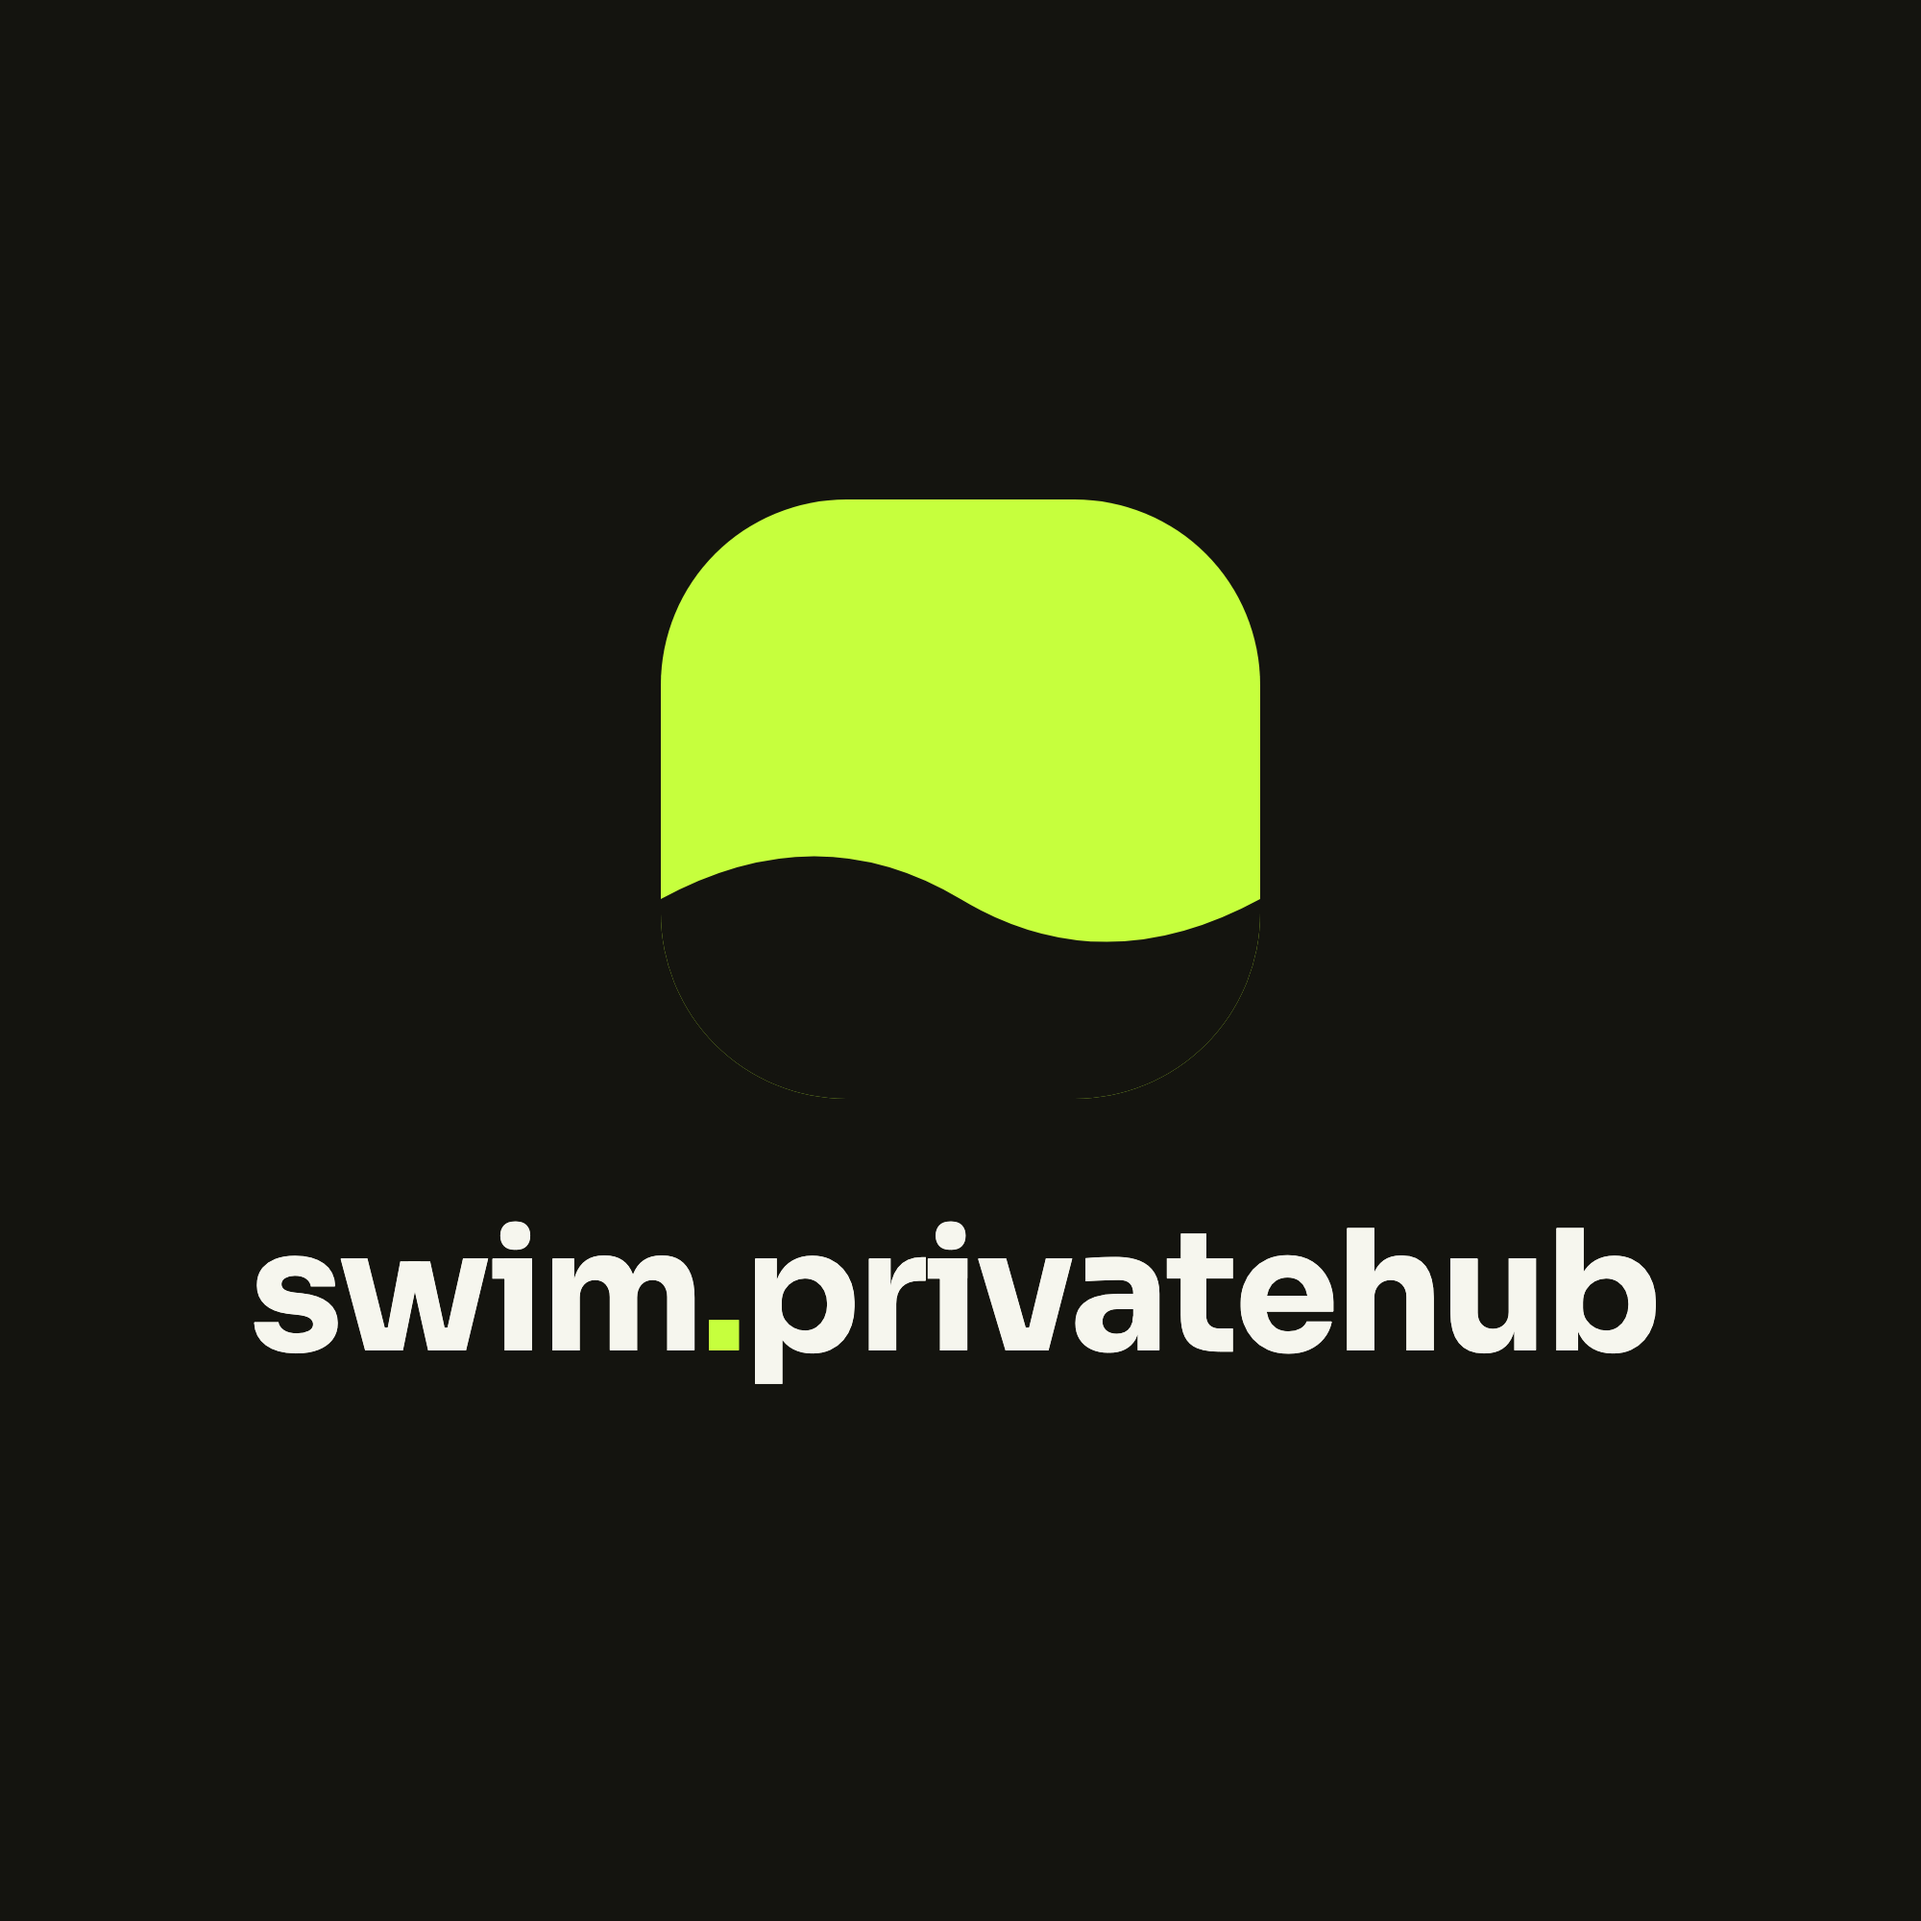
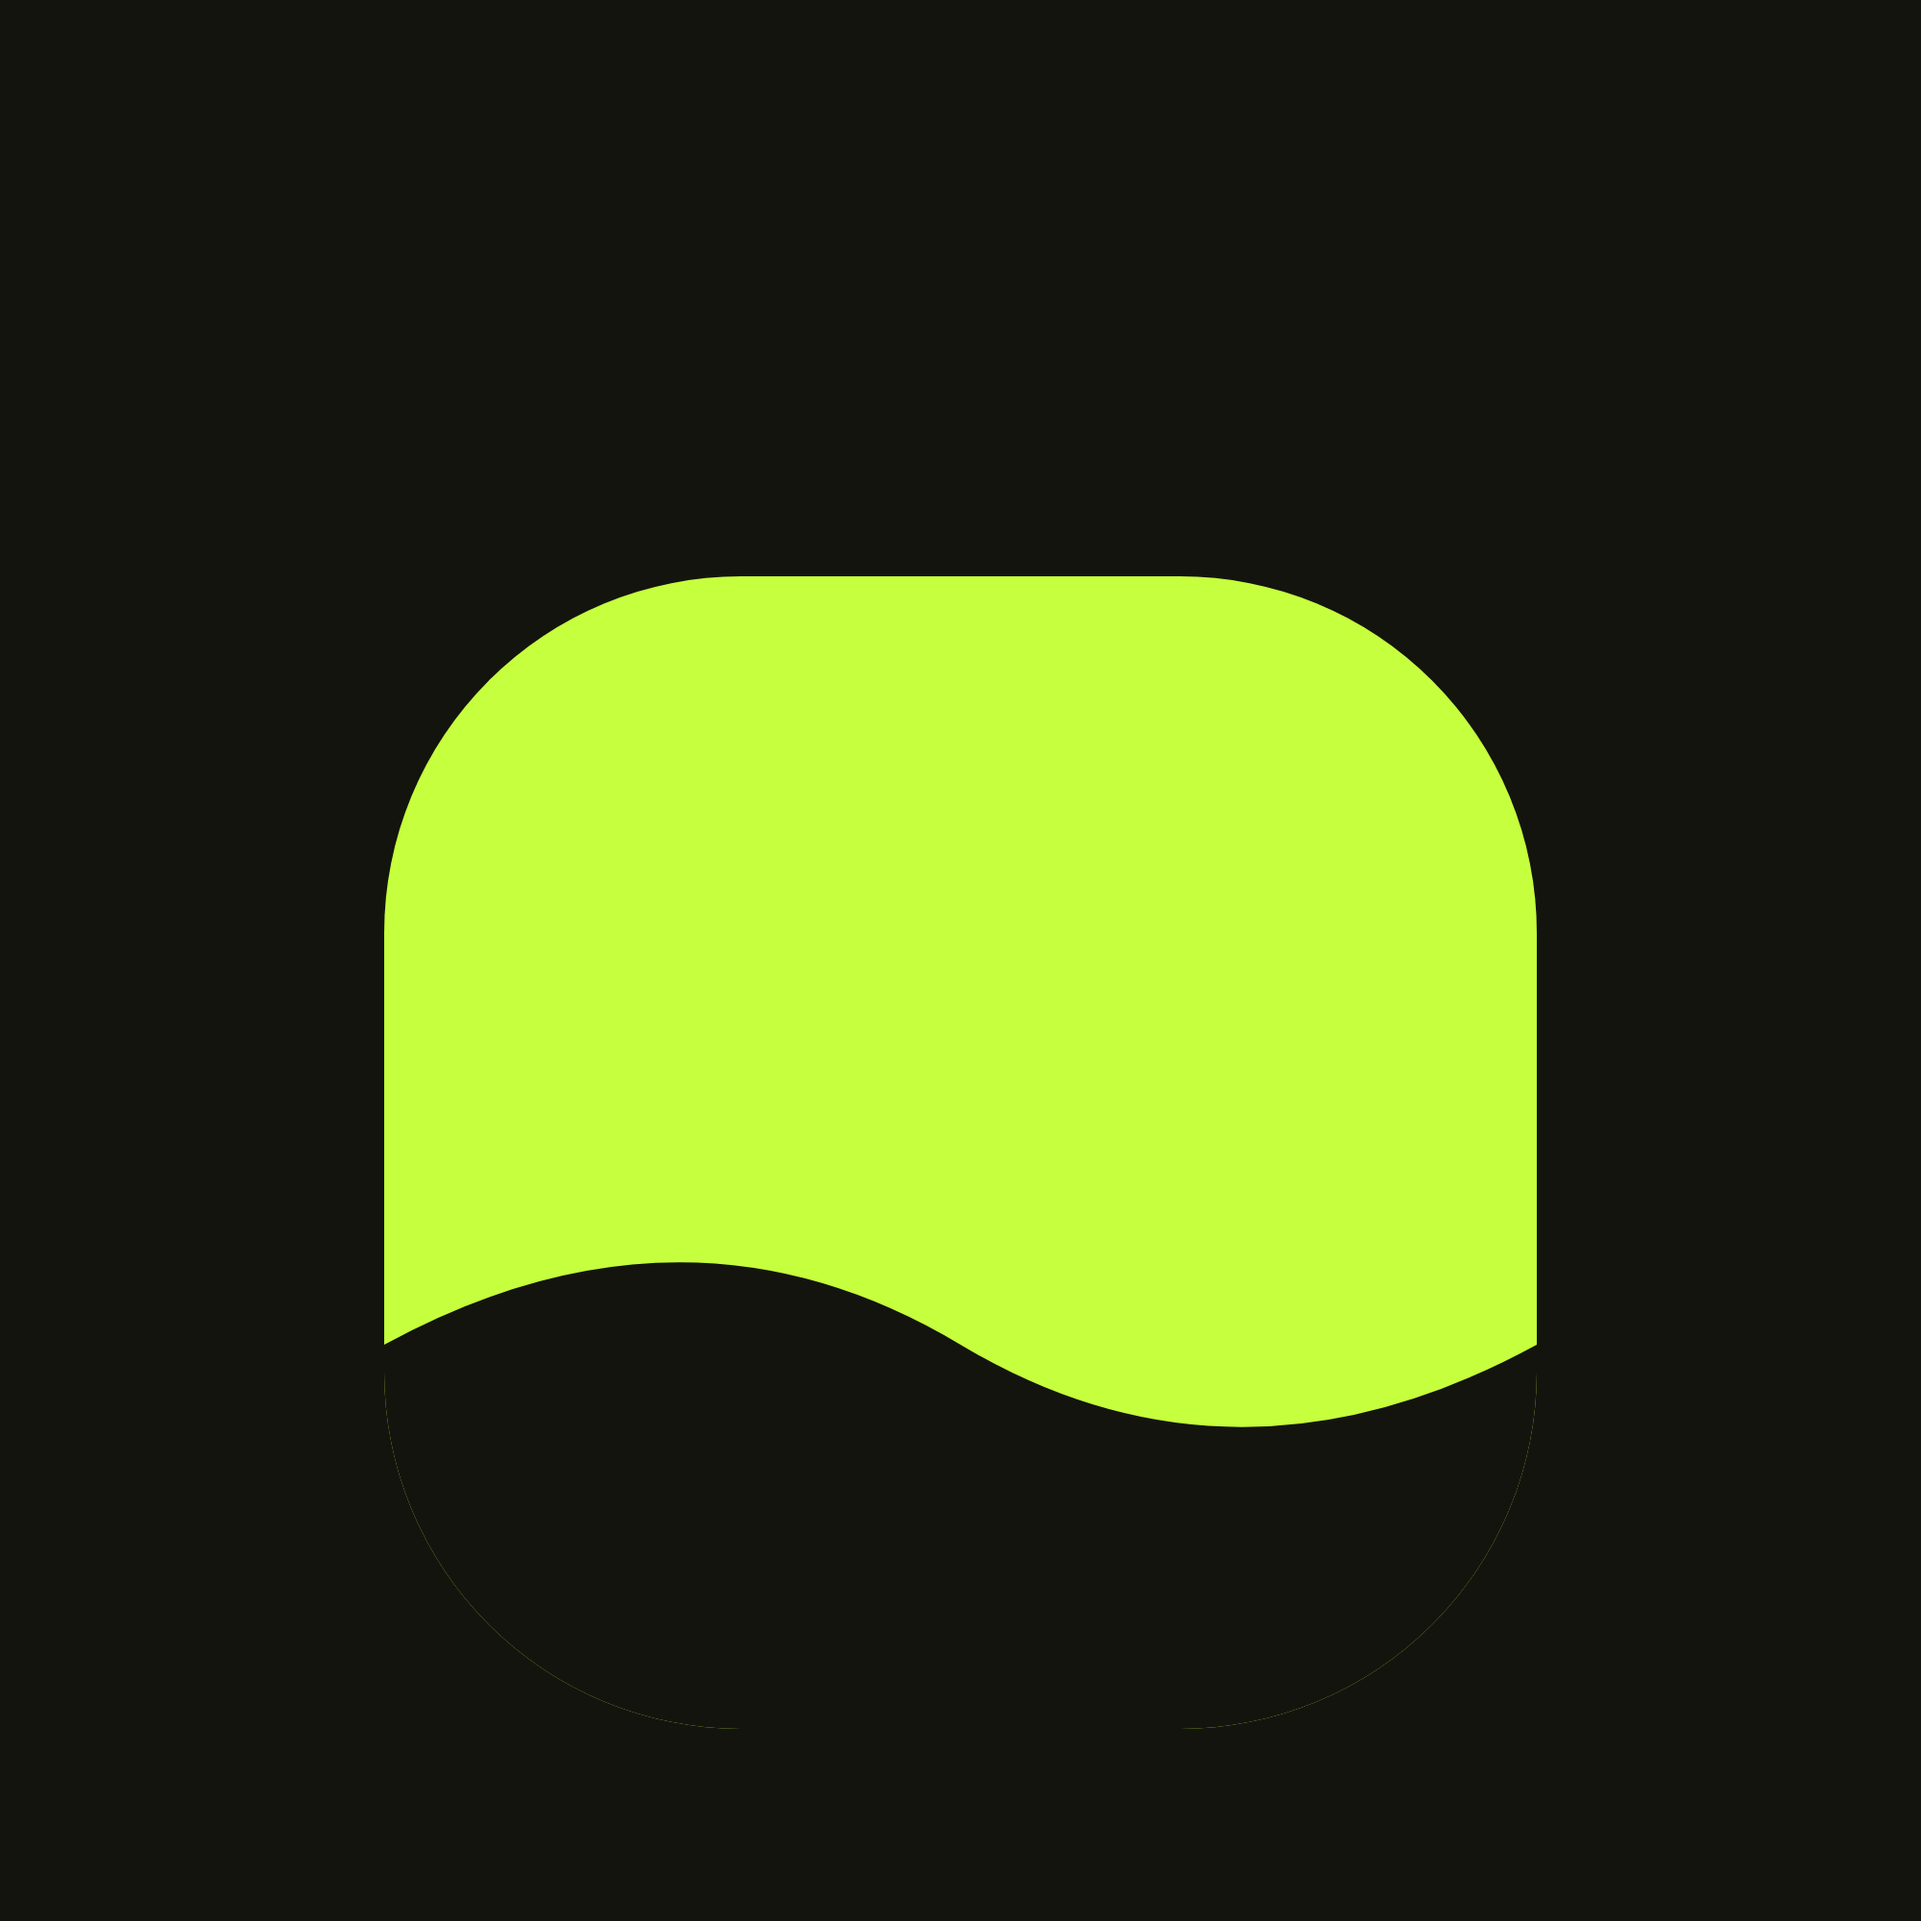
feat(brand): foto profil tanda saja; skrip render gambar sosial disimpan di repo
- Foto profil sosial jadi tanda saja (tanpa tulisan), diposisikan agar bagian
  lime tepat di tengah lingkaran dan aman dipotong bulat.
- scripts/render-brand-social.mjs: render foto profil dan dua banner dari
  logo vektor + Sora Bold lewat Chrome headless, tag 300 DPI, tulis ke
  brand-kit/social dan public/brand-kit/social. Font Sora (latin, variabel)
  disimpan di brand-kit/fonts. Dicek: banner LinkedIn identik piksel-per-piksel
  dengan banner yang disetujui; banner persegi beda 0,07% piksel (setengah
  piksel di tepi huruf).
- Catatan keputusan Hadi 1 Okt malam.

Changed region(s): [[0.124, 0.248, 0.868, 0.744]]

diff --git a/brand-kit/README.md b/brand-kit/README.md
@@ -10,9 +10,9 @@ di situs (rute Next.js, `src/app/brandguideline/`) — bukan file HTML statis la
 | `logo/svg/` | Logo vektor (bisa diperbesar tanpa pecah, latar transparan): `lockup-on-light`, `lockup-on-dark`, `mark-lime`, `mark-cream`, `mark-white-mono` |
 | `logo/png/` | Logo siap pakai, hi-res: lockup 8320×1920 (latar cream / charcoal), tanda logo 4096×4096 |
 | `icons/` | favicon.ico, ikon aplikasi (32/180), ikon PWA 192 & 512 — sama persis dengan yang dipakai website (ukuran dipatok standar OS/PWA, bukan hi-res) |
-| `social/` | Foto profil 2000×2000, banner 6336×1584 (LinkedIn) & 6000×2000 — master hi-res (4×); platform akan resize turun otomatis saat diunggah |
+| `social/` | Foto profil 2000×2000 (tanda saja, tanpa tulisan), banner 6336×1584 (LinkedIn) & 6000×2000 — master hi-res (4×); platform akan resize turun otomatis saat diunggah |
 | `colors/` | `palette.json` & `palette.css` (kode warna) |
-| `fonts/FONTS.md` | Font yang dipakai + link download resmi |
+| `fonts/` | `FONTS.md` (font yang dipakai + link download resmi) dan `sora-latin-variable.woff2` (Sora, dipakai skrip render gambar sosial) |
 
 ## Warna inti
 | Nama | Hex | Pemakaian |
@@ -59,3 +59,4 @@ di situs (rute Next.js, `src/app/brandguideline/`) — bukan file HTML statis la
   yang belum memasang Sora, tulisannya jatuh ke font pengganti — pakai versi PNG
   untuk keperluan cetak/berbagi, atau pasang Sora dulu (lihat `fonts/FONTS.md`).
 - Gaya bahasa, headline, tagline, dan istilah baku: lihat `MESSAGING.md`.
+- Render ulang gambar sosial (mis. saat tagline berubah): `node scripts/render-brand-social.mjs` (butuh Google Chrome). Ubah `TAGLINE` di skrip agar sama dengan `MESSAGING.md`, jalankan, lalu commit hasilnya; skrip menulis ke `brand-kit/social/` dan `public/brand-kit/social/` sekaligus.

diff --git a/docs/KEPUTUSAN.md b/docs/KEPUTUSAN.md
@@ -28,3 +28,4 @@ Arsip keputusan Hadi dan hal sensitif. TIDAK dimuat otomatis; dibaca bila perlu.
 - Video header: hanya desktop; berhenti bila "kurangi gerakan" atau hemat data menyala; pilih yang tanpa wajah jelas (terutama anak) dan jangan terkesan coach atau kolam SPH asli; izin Hadi dulu sebelum unduh.
 - Push dua kali: setelah tahap 1 (brand v2) lulus, dan setelah tahap 2 (animasi landing).
 - Gaya laporan: jelaskan istilah teknis (tsc, vitest, build, Lighthouse, cabang, bentrok) dengan bahasa awam; jangan sebut nama cabang atau file kecuali Hadi minta.
+- 1 Okt malam (jawaban Hadi): foto profil sosial = tanda saja tanpa tulisan; tagline selalu pakai titik (bukan titik dua) di semua tempat; bagian bawah logo yang hitam menyatu dengan latar gelap diterima seperti gambar lama; skrip render gambar sosial disimpan di repo (scripts/render-brand-social.mjs, font di brand-kit/fonts). Aturan laporan baru: gue/lu, maks 35 baris, Next dan Pertanyaan wajib lengkap, tanpa daftar istilah, baris Status kode.

diff --git a/brand-kit/fonts/FONTS.md b/brand-kit/fonts/FONTS.md
@@ -9,3 +9,5 @@ Semua font gratis dari Google Fonts (lisensi SIL Open Font License, boleh dipaka
 | Angka/kode (opsional) | JetBrains Mono | 500, 600 | https://fonts.google.com/specimen/JetBrains+Mono |
 
 Install font di komputer sebelum membuka file SVG lockup, supaya tulisan "swim.privatehub" tampil dengan Sora (kalau tidak ada, jatuh ke Arial).
+
+File `sora-latin-variable.woff2` (Sora, huruf latin, bobot 100–800) disimpan di sini agar skrip `scripts/render-brand-social.mjs` bisa merender gambar tanpa unduh apa pun. Lisensi Sora: SIL Open Font License 1.1 (boleh dipakai dan disebarkan, termasuk komersial; teks lisensi lengkap di halaman Sora di Google Fonts).
